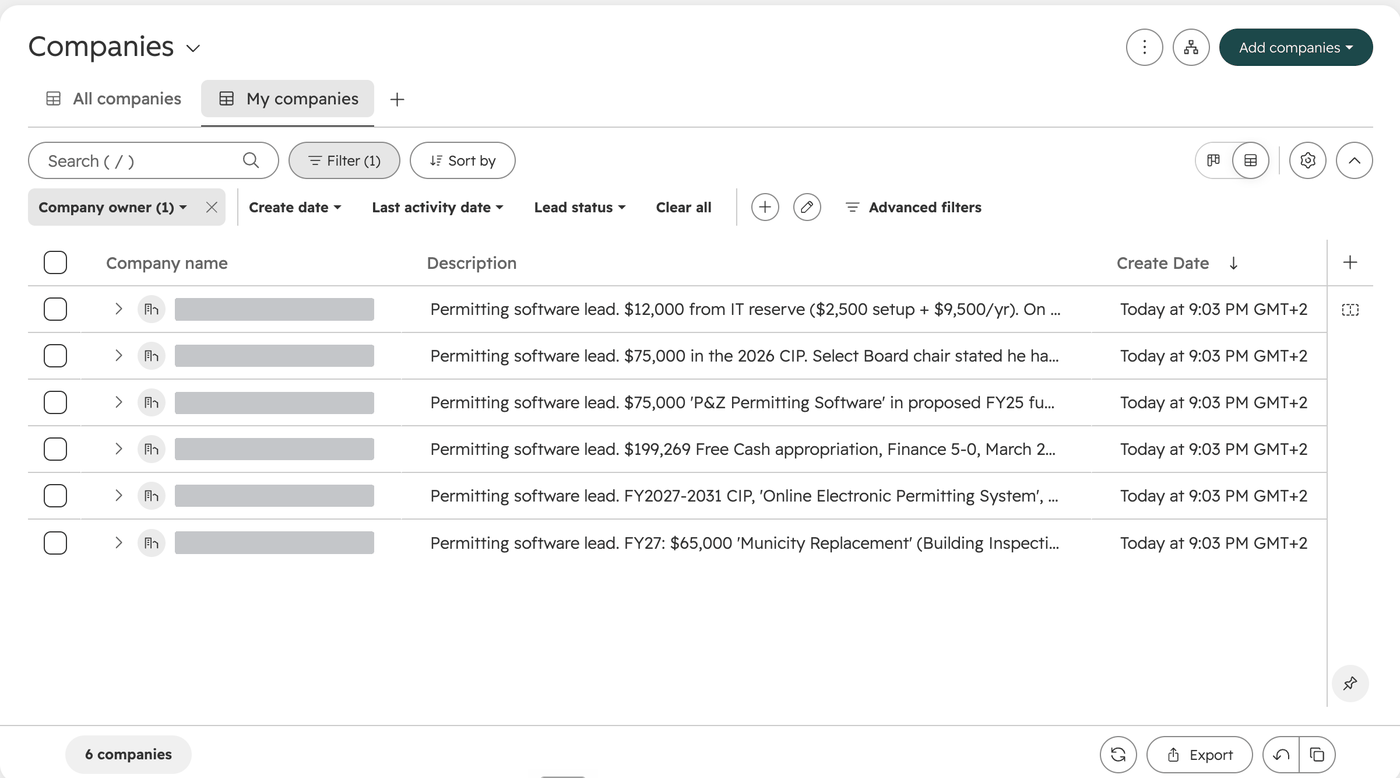
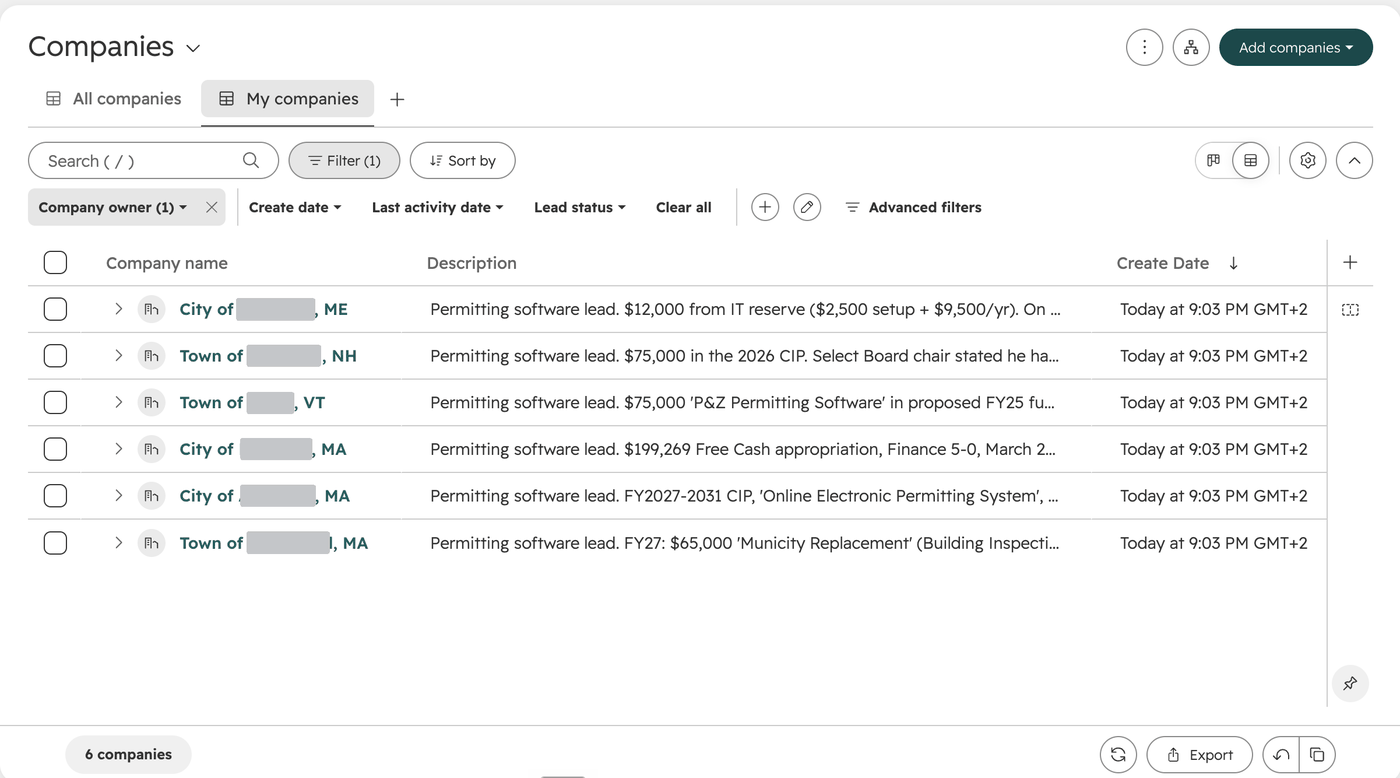
CRM capture: redact the town, keep the state
Founder correction. The first pass greyed the whole company-name cell,
which dropped the state and left the panel inconsistent with tab 02,
where the state is deliberately visible. Now "City of ███, ME" — the
"City of"/"Town of" prefix and the state code both survive, and only the
part a reader could look up is covered.

Bounds were measured off a 3x crop of the name column rather than
estimated, since the prefix width differs between "City of" and "Town of"
and the town lengths vary from Essex to Greenfield.

Alt text corrected to match.

Claude-Session: https://claude.ai/code/session_01XGa62Psn75LciCnf5CkVgY

Changed region(s): [[0.1229, 0.3702, 0.2764, 0.7095], [0.215, 0.6787, 0.2764, 0.7095]]

diff --git a/theme/municipal-alpha/templates/index.html b/theme/municipal-alpha/templates/index.html
@@ -88,7 +88,7 @@
    "body": "That step runs through your CRM's own connector, so it is not an integration we built or one you wait on us for.",
    "note": "The same six, created as company records in the same session, each carrying the budget line that surfaced it.",
    "img": "demo-crm.png", "w": 1400, "h": 788,
-   "alt": "A CRM company list showing six municipalities created as records within the same session, each with a description field carrying the budgeted amount and the funding source. Company names are redacted."}
+   "alt": "A CRM company list showing six municipalities created as records within the same session, each with a description field carrying the budgeted amount and the funding source. Town names are redacted; the state is left visible."}
 ] %}
 <div class="rd-nav-page">
 
